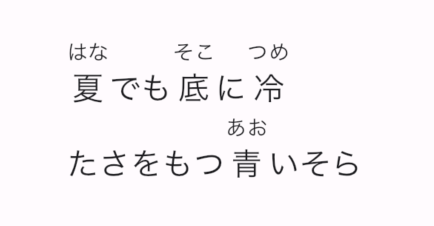
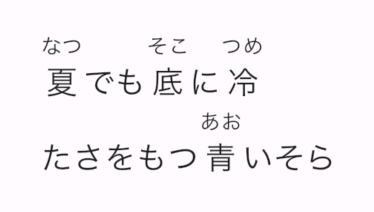
dev: update README

diff --git a/README.md b/README.md
@@ -20,7 +20,7 @@ RubyText(
   [
     RubyTextData(
       '夏',
-      ruby: 'はな',
+      ruby: 'なつ',
     ),
     RubyTextData(
       'でも',
